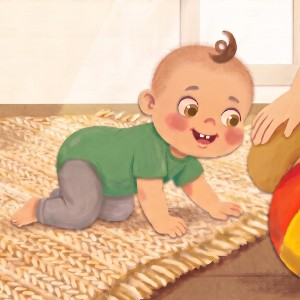
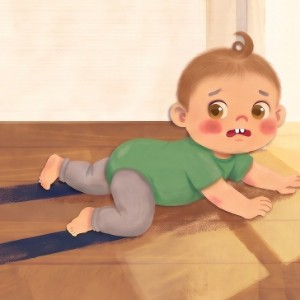
A+ libro 3: primera imagen cambiada por la del piso brillante (no se repite y el pelo coincide)
Claude-Session: https://claude.ai/code/session_01D1pUKWwo8J3jsyg297Aijq

diff --git a/maqueta/aplus.py b/maqueta/aplus.py
@@ -66,7 +66,7 @@ LIBROS[(2, "en")] = {**COMUN_EN,
 LIBROS[(3, "en")] = {**COMUN_EN,
     "serie": "I Grow, I Discover · Book 3", "titulo": "Tommy Learns to Crawl",
     "bajada": "A read-aloud picture book about crawling, and the friction that keeps little hands from slipping.",
-    "cuadros": [("l3-d06.jpg", "88% 50%"), ("l3-d02.jpg", "84% 50%"), ("l3-exp.jpg", (0, 100, 1268, 1530))],  # al cuadro 3 se le tapa a mano un puntito abajo a la derecha
+    "cuadros": [("l3-d05.jpg", (1420, 290, 2148, 1018)), ("l3-d02.jpg", "84% 50%"), ("l3-exp.jpg", (0, 100, 1268, 1530))],  # al cuadro 3 se le tapa a mano un puntito abajo a la derecha
     "adentro": [("l3-d10.jpg", "12% 60%", "A gentle story", "told by Tommy himself"),
                 ("l3-d08.jpg", "0% 50%", "Real, simple physics", "friction keeps us from slipping"),
                 ("l3-exp.jpg", "0% 30%", "A home experiment", "with things from home"),

diff --git a/kdp/aplus/README.md b/kdp/aplus/README.md
@@ -98,7 +98,7 @@ Mismos 4 módulos, con las imágenes `libro3-en-…`. Content name: **Tommy Book
 
 **Módulo 2 · Standard Three Images & Text**
 - **Headline del módulo:** Learning through play
-- **Imagen 1 · Headline:** Friction helps us grip · **Body:** On the fuzzy rug, Tommy's hands and knees don't slip. That grip is called friction, and it's what lets him crawl.
+- **Imagen 1 · Headline:** Slippery floor, grippy rug · **Body:** On the shiny hallway floor, Tommy's knees slip and slide… WHOOSH! On the fuzzy rug they don't. That grip is called friction, and it's what lets him crawl.
 - **Imagen 2 · Headline:** Hand, knee. Hand, knee. · **Body:** One hand, two hands, one knee, two knees: four! Tommy rocks, slips, tries again… and finally crawls all the way to Rula.
 - **Imagen 3 · Headline:** Try it at home · **Body:** A simple, safe experiment with books, a towel, and a ball: where does the ball roll farther, on the smooth floor or on the towel?
 
@@ -110,7 +110,7 @@ Mismos 4 módulos, con las imágenes `libro3-en-…`. Content name: **Tommy Book
 | Imagen | Alt text |
 | --- | --- |
 | Cabecera | Cover of Tommy Learns to Crawl: a baby crawling on a rug toward a colorful ball |
-| Cuadro 1 | Baby Tommy crawling on a fuzzy rug |
+| Cuadro 1 | Baby Tommy slipping on a shiny wooden floor |
 | Cuadro 2 | Baby Tommy on his hands and knees on the rug, smiling |
 | Cuadro 3 | A ball rolling down a ramp of books, and two little hands on a smooth floor |
 | Adentro | What's inside: a story, simple physics, an experiment, and a page for grown-ups |
